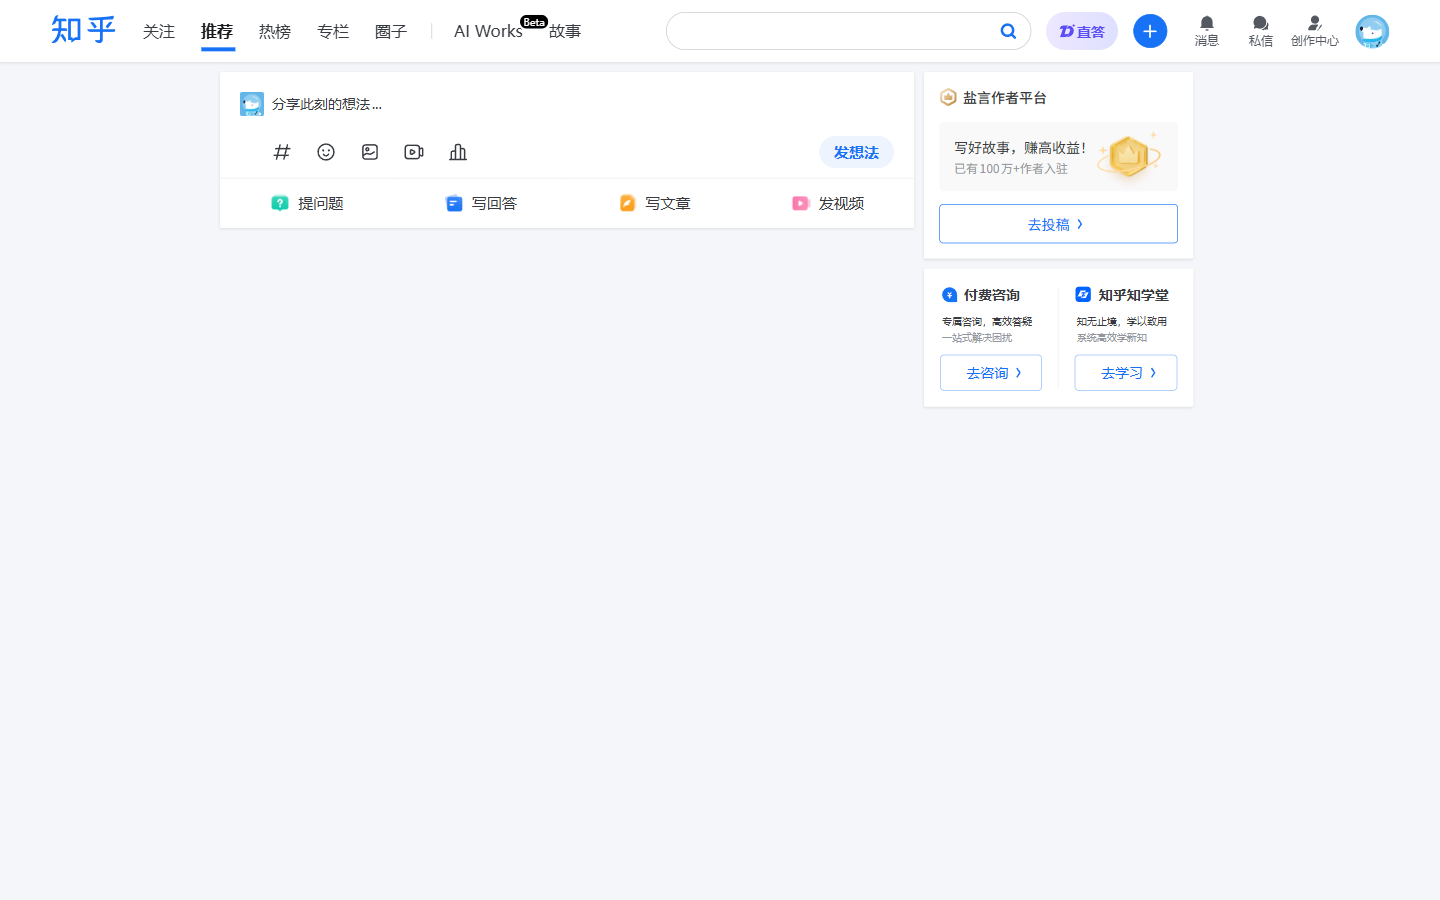
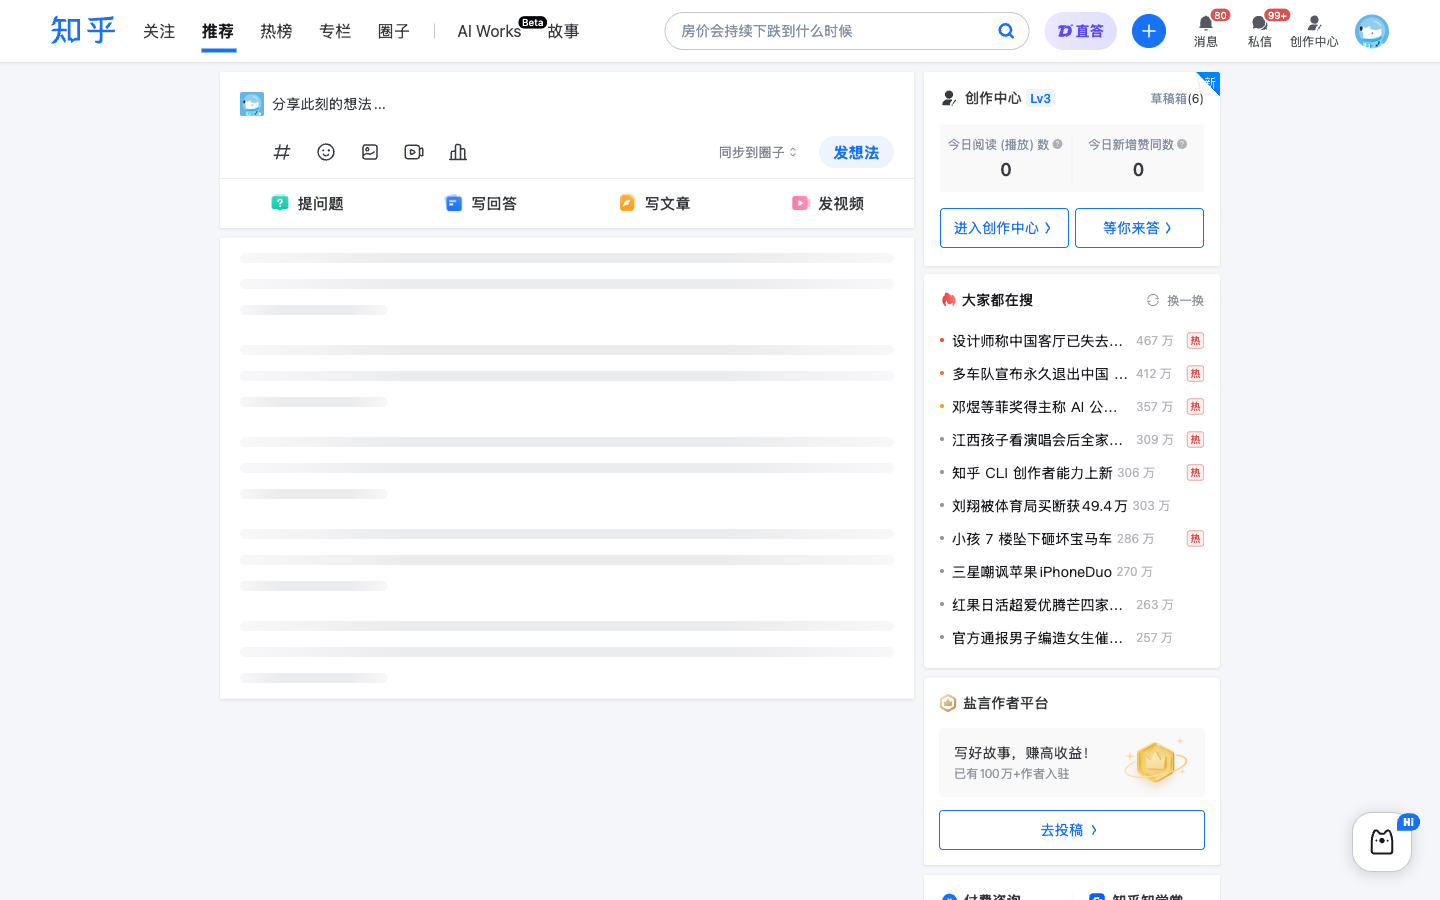
add change to my multica

diff --git a/server/pkg/agent/codex_test.go b/server/pkg/agent/codex_test.go
@@ -18,6 +18,7 @@ import (
 	"unicode/utf8"
 
 	"github.com/multica-ai/multica/server/pkg/redact"
+	"github.com/pelletier/go-toml/v2"
 )
 
 func newTestCodexClient(t *testing.T) (*codexClient, *fakeStdin, []Message) {
@@ -5118,6 +5119,56 @@ func TestEnsureCodexMcpConfigTranslatesRemoteHTTPServer(t *testing.T) {
 		if strings.Contains(got, unexpected) {
 			t.Fatalf("remote HTTP server should not render %q, got:\n%s", unexpected, got)
 		}
+	}
+}
+
+func TestEnsureCodexMcpConfigPreservesToolSettings(t *testing.T) {
+	t.Parallel()
+	for _, transport := range []string{"stdio", "http"} {
+		t.Run(transport, func(t *testing.T) {
+			t.Parallel()
+			server := map[string]any{
+				"tools": map[string]any{
+					"include":            []string{"check_login_status"},
+					"exclude":            []string{"delete_cookies"},
+					"check_login_status": map[string]any{"approval_mode": "approve"},
+					"publish_article":    map[string]any{"approval_mode": "prompt", "output_token_limit": 2048},
+				},
+			}
+			if transport == "http" {
+				server["type"] = "http"
+				server["url"] = "http://127.0.0.1:18060/mcp"
+			} else {
+				server["command"] = "test-mcp-server"
+			}
+			raw, err := json.Marshal(map[string]any{"mcpServers": map[string]any{"zhihu": server}})
+			if err != nil {
+				t.Fatal(err)
+			}
+			path := filepath.Join(t.TempDir(), "config.toml")
+			if err := ensureCodexMcpConfig(path, raw, slog.Default()); err != nil {
+				t.Fatal(err)
+			}
+			data, err := os.ReadFile(path)
+			if err != nil {
+				t.Fatal(err)
+			}
+			var config struct {
+				Servers map[string]struct {
+					Tools map[string]map[string]any `toml:"tools"`
+				} `toml:"mcp_servers"`
+			}
+			if err := toml.Unmarshal(data, &config); err != nil {
+				t.Fatalf("invalid generated Codex config: %v", err)
+			}
+			want := map[string]map[string]any{
+				"check_login_status": {"approval_mode": "approve"},
+				"publish_article":    {"approval_mode": "prompt", "output_token_limit": int64(2048)},
+			}
+			if !reflect.DeepEqual(config.Servers["zhihu"].Tools, want) {
+				t.Fatalf("tool approval settings must survive while selectors are stripped: got %#v, want %#v", config.Servers["zhihu"].Tools, want)
+			}
+		})
 	}
 }
 

diff --git a/server/pkg/agent/codex.go b/server/pkg/agent/codex.go
@@ -727,6 +727,12 @@ func normalizeCodexMcpServerConfig(server map[string]any) map[string]any {
 	if !isCodexRemoteMcpServer(server) {
 		normalized := make(map[string]any, len(server))
 		for k, v := range server {
+			if k == "tools" {
+				if settings := codexMcpToolSettings(v); len(settings) > 0 {
+					normalized[k] = settings
+				}
+				continue
+			}
 			if isMulticaMcpSelectorKey(k) {
 				continue
 			}
@@ -738,6 +744,10 @@ func normalizeCodexMcpServerConfig(server map[string]any) map[string]any {
 	normalized := make(map[string]any, len(server)+1)
 	for k, v := range server {
 		switch {
+		case k == "tools":
+			if settings := codexMcpToolSettings(v); len(settings) > 0 {
+				normalized[k] = settings
+			}
 		case isMulticaMcpSelectorKey(k):
 			continue
 		case k == "type":
@@ -752,6 +762,23 @@ func normalizeCodexMcpServerConfig(server map[string]any) map[string]any {
 	}
 	normalized["experimental_use_rmcp_client"] = true
 	return normalized
+}
+
+// Codex uses tools.<name> objects for approval and output settings. Multica
+// also uses tools.include/exclude arrays for selection. Keep the former while
+// stripping selectors, including when both appear in the same server entry.
+func codexMcpToolSettings(value any) map[string]any {
+	entries, ok := value.(map[string]any)
+	if !ok {
+		return nil
+	}
+	settings := make(map[string]any)
+	for name, entry := range entries {
+		if _, ok := entry.(map[string]any); ok {
+			settings[name] = entry
+		}
+	}
+	return settings
 }
 
 func isMulticaMcpSelectorKey(k string) bool {

diff --git a/server/internal/service/builtin_skills/multica-platform/references/agents.md b/server/internal/service/builtin_skills/multica-platform/references/agents.md
@@ -290,6 +290,13 @@ Two ways `mcp_config` differs from `custom_env`:
 
 Provider support is not uniform: Qwen Code accepts a managed `mcp_config` through a daemon-owned 0600 temporary JSON file passed with `--mcp-config`; it is removed when the run exits. Leave the field unset (`null`) to inherit Qwen Code native settings.
 
+Codex per-tool objects such as `tools.check_login_status.approval_mode` and
+`tools.<name>.output_token_limit` are preserved in the generated task-local
+config. These differ from Multica's `tools.include` / `tools.exclude` selector
+arrays, which are stripped before launching Codex. A saved approval rule has
+no effect if an older daemon drops the entire `tools` field; rebuild/restart
+that daemon and inspect the generated config when diagnosing this case.
+
 #### Workspace MCP servers
 
 A workspace keeps a LIBRARY of MCP servers (workspace Settings → MCP, or
